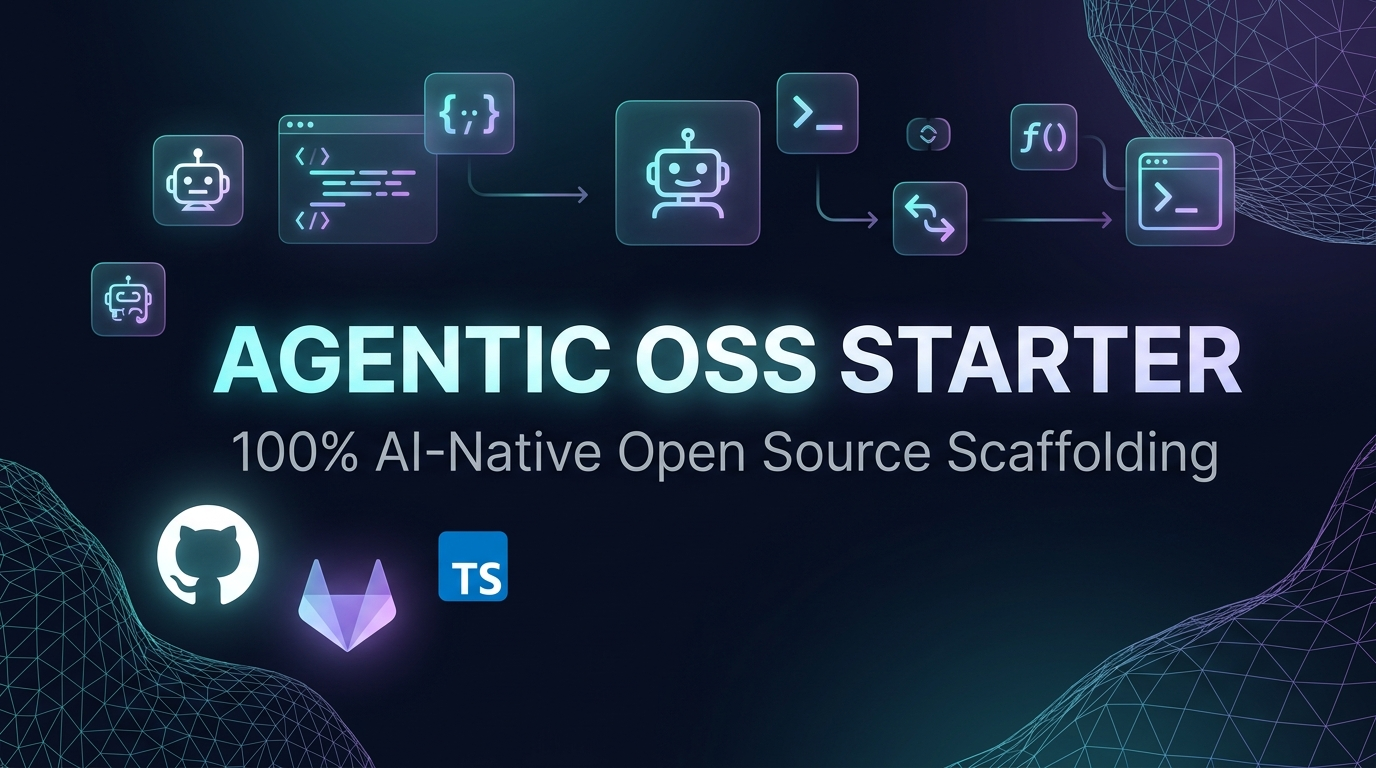
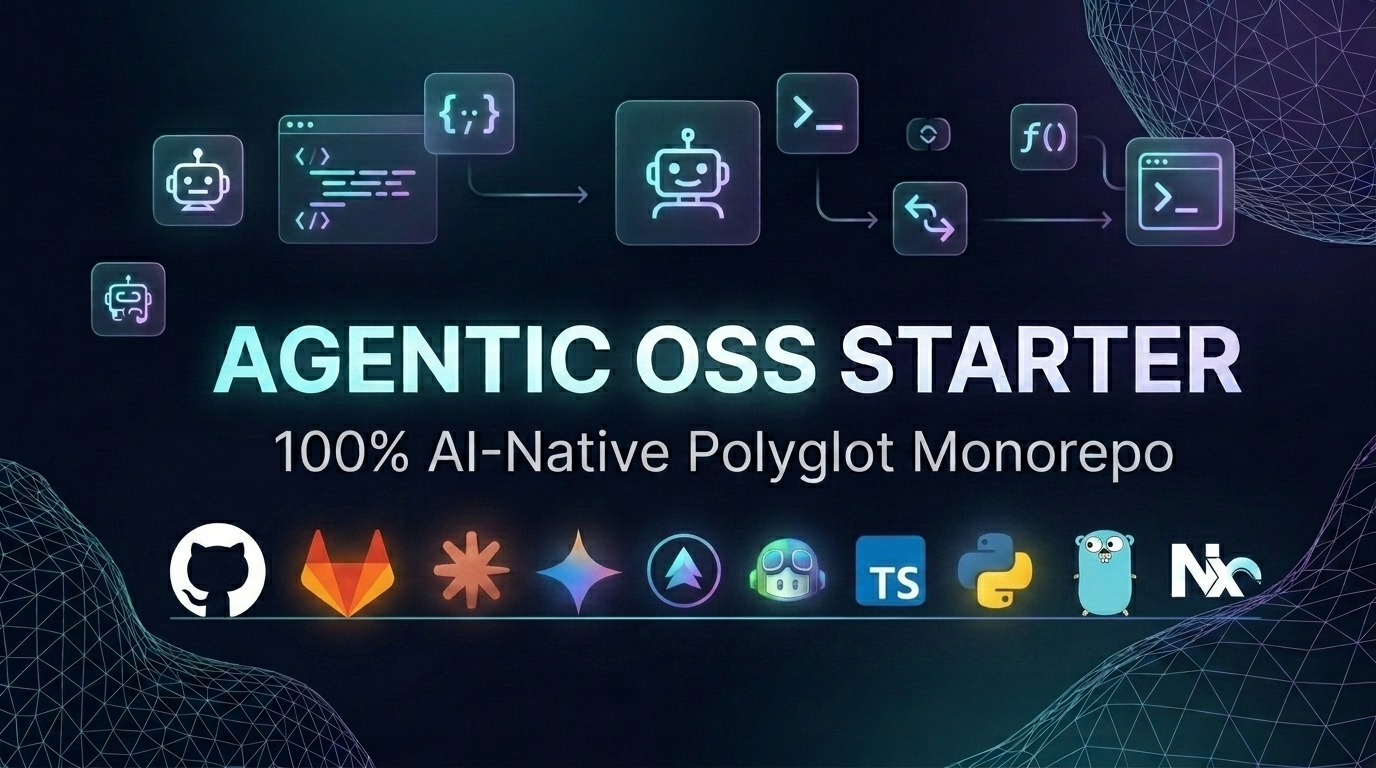
docs(claude): add CLAUDE.md guidelines for Anthropic Claude Code (#22)
docs(claude): add CLAUDE.md guidelines and updated polyglot AI branding

diff --git a/README.md b/README.md
@@ -9,13 +9,22 @@
     <img src="https://github.com/shailesh17/agentic-oss-starter/actions/workflows/ci.yml/badge.svg" alt="CI Status" />
   </a>
   <a href="https://gitlab.com/shaileshpatel17/agentic-oss-starter/-/pipelines">
-    <img src="https://img.shields.io/badge/GitLab%20CI-passing-orange.svg?logo=gitlab" alt="GitLab CI Status" />
+    <img src="https://img.shields.io/badge/GitLab%20CI-passing-orange.svg?logo=gitlab&logoColor=white" alt="GitLab CI Status" />
+  </a>
+  <a href="https://claude.ai">
+    <img src="https://img.shields.io/badge/Claude-Code%20Ready-D97706.svg?logo=anthropic&logoColor=white" alt="Claude Code Ready" />
+  </a>
+  <a href="https://deepmind.google/technologies/gemini/">
+    <img src="https://img.shields.io/badge/Gemini-Supported-4285F4.svg?logo=google&logoColor=white" alt="Gemini Supported" />
+  </a>
+  <a href="https://github.com/features/copilot">
+    <img src="https://img.shields.io/badge/Copilot%20%26%20Cursor-Configured-00ADD8.svg?logo=githubcopilot&logoColor=white" alt="Copilot & Cursor Configured" />
   </a>
   <a href="https://github.com/shailesh17/agentic-oss-starter/blob/main/LICENSE">
     <img src="https://img.shields.io/badge/License-MIT-blue.svg" alt="License: MIT" />
   </a>
   <a href="https://nodejs.org">
-    <img src="https://img.shields.io/badge/Node.js-%3E%3D22.13.0-brightgreen.svg" alt="Node.js Version" />
+    <img src="https://img.shields.io/badge/Node.js-%3E%3D22.13.0-brightgreen.svg?logo=nodedotjs&logoColor=white" alt="Node.js Version" />
   </a>
   <a href="https://python.org">
     <img src="https://img.shields.io/badge/Python-3.10+-3776AB.svg?logo=python&logoColor=white" alt="Python Version" />
@@ -24,16 +33,16 @@
     <img src="https://img.shields.io/badge/Go-1.22+-00ADD8.svg?logo=go&logoColor=white" alt="Go Version" />
   </a>
   <a href="https://pnpm.io">
-    <img src="https://img.shields.io/badge/pnpm-11.x-orange.svg" alt="pnpm" />
+    <img src="https://img.shields.io/badge/pnpm-11.x-orange.svg?logo=pnpm&logoColor=white" alt="pnpm" />
   </a>
   <a href="https://nx.dev">
-    <img src="https://img.shields.io/badge/Nx-Polyglot%20Monorepo-blue.svg" alt="Nx Monorepo" />
+    <img src="https://img.shields.io/badge/Nx-Polyglot%20Monorepo-143055.svg?logo=nx&logoColor=white" alt="Nx Monorepo" />
   </a>
   <a href="https://trunk.io">
-    <img src="https://img.shields.io/badge/Trunk-Checked-blueviolet.svg" alt="Trunk Check" />
+    <img src="https://img.shields.io/badge/Trunk-Checked-blueviolet.svg?logo=trunk&logoColor=white" alt="Trunk Check" />
   </a>
   <a href="https://www.conventionalcommits.org">
-    <img src="https://img.shields.io/badge/Conventional%20Commits-1.0.0-yellow.svg" alt="Conventional Commits" />
+    <img src="https://img.shields.io/badge/Conventional%20Commits-1.0.0-yellow.svg?logo=conventionalcommits&logoColor=white" alt="Conventional Commits" />
   </a>
 </p>
 
@@ -145,6 +154,7 @@ agentic-oss-starter/
 ├── scripts/
 │   ├── setup-github-repo.sh    # One-command GitHub settings & branch ruleset setup
 │   └── mirror-to-gitlab.sh     # One-command GitLab mirror with GPG signature preservation
+├── CLAUDE.md                   # Anthropic Claude Code CLI memory & instructions
 ├── nx.json                     # Local Nx workspace task graph & cache config
 ├── pnpm-workspace.yaml         # Defines workspace package layout
 ├── package.json                # Root package.json with unified orchestration scripts
@@ -213,20 +223,20 @@ Adding a new language (e.g. Rust, Java, or C#) is as simple as adding a folder w
 
 ## 📦 Features & Capabilities
 
-| Feature                         | Description                                                                       | File / Tool                                                 |
-| :------------------------------ | :-------------------------------------------------------------------------------- | :---------------------------------------------------------- |
-| **🌐 Polyglot Support**         | First-class TypeScript, Python, and Go project scaffolding                        | `apps/*`, `packages/*`                                      |
-| **⚡ Local Nx Monorepo**        | Task caching, topological builds, and affected commands with zero cloud telemetry | `nx.json`, `pnpm-workspace.yaml`                            |
-| **🤖 AI Agent Guidelines**      | Comprehensive pairing rules, stdout stream hygiene, and prompt runbooks           | `AGENTS.md`, `GEMINI.md`, `.github/copilot-instructions.md` |
-| **⚡ AI PR Creation Skill**     | Automated rich Markdown PR generator with verification & checklist                | `.agents/skills/create-pr/SKILL.md`                         |
-| **🧪 Multi-Node Matrix CI**     | Automated builds & tests across Node 22.x & 24.x, Python 3.12, and Go 1.22        | `.github/workflows/ci.yml`                                  |
-| **📝 Semantic PR Validation**   | Enforces Conventional Commits specification on PR titles                          | `.github/workflows/semantic-pr.yml`                         |
-| **🏷 Release Drafter**          | Automatically drafts release notes categorized by Conventional Commits            | `.github/workflows/release.yml`                             |
-| **🦊 GitLab CI/CD Pipeline**    | Dual-platform CI pipeline ready for GitLab mirroring with zero config             | `.gitlab-ci.yml`, `scripts/mirror-to-gitlab.sh`             |
-| **🔐 GPG Mirror Verification**  | Automatically signs mirrored commits with personal GPG keys on GitLab             | `scripts/mirror-to-gitlab.sh`                               |
-| **🛡 Automated Repo Rules**     | One-command setup for squash merging, linear history, and branch rulesets         | `scripts/setup-github-repo.sh`                              |
-| **🧹 Zero Global Dependencies** | Trunk launcher, TypeScript, Nx, and Commitlint run locally via `node_modules`     | `.trunk/trunk.yaml`, `package.json`                         |
-| **🤖 Consolidated Dependabot**  | Groups weekly updates into unified PRs, preventing rebasing cascades              | `.github/dependabot.yml`                                    |
+| Feature                         | Description                                                                       | File / Tool                                                              |
+| :------------------------------ | :-------------------------------------------------------------------------------- | :----------------------------------------------------------------------- |
+| **🌐 Polyglot Support**         | First-class TypeScript, Python, and Go project scaffolding                        | `apps/*`, `packages/*`                                                   |
+| **⚡ Local Nx Monorepo**        | Task caching, topological builds, and affected commands with zero cloud telemetry | `nx.json`, `pnpm-workspace.yaml`                                         |
+| **🤖 AI Agent Guidelines**      | Comprehensive pairing rules, stdout stream hygiene, and prompt runbooks           | `AGENTS.md`, `GEMINI.md`, `CLAUDE.md`, `.github/copilot-instructions.md` |
+| **⚡ AI PR Creation Skill**     | Automated rich Markdown PR generator with verification & checklist                | `.agents/skills/create-pr/SKILL.md`                                      |
+| **🧪 Multi-Node Matrix CI**     | Automated builds & tests across Node 22.x & 24.x, Python 3.12, and Go 1.22        | `.github/workflows/ci.yml`                                               |
+| **📝 Semantic PR Validation**   | Enforces Conventional Commits specification on PR titles                          | `.github/workflows/semantic-pr.yml`                                      |
+| **🏷 Release Drafter**          | Automatically drafts release notes categorized by Conventional Commits            | `.github/workflows/release.yml`                                          |
+| **🦊 GitLab CI/CD Pipeline**    | Dual-platform CI pipeline ready for GitLab mirroring with zero config             | `.gitlab-ci.yml`, `scripts/mirror-to-gitlab.sh`                          |
+| **🔐 GPG Mirror Verification**  | Automatically signs mirrored commits with personal GPG keys on GitLab             | `scripts/mirror-to-gitlab.sh`                                            |
+| **🛡 Automated Repo Rules**     | One-command setup for squash merging, linear history, and branch rulesets         | `scripts/setup-github-repo.sh`                                           |
+| **🧹 Zero Global Dependencies** | Trunk launcher, TypeScript, Nx, and Commitlint run locally via `node_modules`     | `.trunk/trunk.yaml`, `package.json`                                      |
+| **🤖 Consolidated Dependabot**  | Groups weekly updates into unified PRs, preventing rebasing cascades              | `.github/dependabot.yml`                                                 |
 
 ---
 
@@ -236,8 +246,9 @@ This template is configured to instruct AI agents how to contribute safely and e
 
 ### 📚 Agent Configuration Files
 
-| File                                  | Target Agent / IDE         | Purpose                                                         |
+| File                                  | Target AI Tool / Platform  | Purpose                                                         |
 | :------------------------------------ | :------------------------- | :-------------------------------------------------------------- |
+| **`CLAUDE.md`**                       | Anthropic Claude Code CLI  | Session instructions, polyglot task commands, and rules.        |
 | **`AGENTS.md`**                       | All Coding Agents          | Monorepo architecture, polyglot task contract, and PR workflow. |
 | **`GEMINI.md`**                       | Antigravity / Gemini IDE   | Workspace instructions and automated PR standards.              |
 | **`.github/copilot-instructions.md`** | GitHub Copilot & Cursor    | Coding conventions, polyglot guidelines, and tooling commands.  |
@@ -249,7 +260,7 @@ Copy and paste this prompt when instructing your AI assistant:
 
 ```text
 Please implement [feature/fix description].
-1. Follow the polyglot monorepo guidelines in AGENTS.md.
+1. Follow the polyglot monorepo guidelines in AGENTS.md and CLAUDE.md.
 2. Verify with `pnpm run build`, `pnpm test`, `pnpm run format`, and `pnpm run check`.
 3. Open a Pull Request using the workflow in `.agents/skills/create-pr/SKILL.md`.
 ```

diff --git a/CLAUDE.md b/CLAUDE.md
@@ -1,0 +1,33 @@
+# Claude Code Guidelines for `agentic-oss-starter`
+
+Welcome, Claude! This document provides concise, actionable guidelines for developing within this **AI-native polyglot monorepo**.
+
+---
+
+## 🛠 Common Commands
+
+- **Build all workspace tiers**: `pnpm run build`
+- **Run all test suites**: `pnpm test`
+- **Run tests for affected packages only**: `pnpm run affected:test`
+- **Run watch/dev mode**: `pnpm run dev`
+- **Format code**: `pnpm run format` (`trunk fmt`)
+- **Lint & static analysis**: `pnpm run check` (`trunk check`)
+
+---
+
+## 🏗 Polyglot Architecture & Tiers
+
+- **`apps/web`** (TypeScript): Frontend application client.
+- **`apps/api`** (TypeScript): Backend service / API gateway.
+- **`apps/ai-service`** (Python): AI agent, prompt processing, and data service (`pyproject.toml`).
+- **`apps/gateway`** (Go): High-performance microservice and proxy (`go.mod`).
+- **`packages/shared`** (TypeScript): Reusable contracts, schemas, and utilities (`@agentic/shared`).
+
+---
+
+## 📝 Coding & Commit Standards
+
+- **Conventional Commits**: `<type>(<scope>): <description>` (e.g. `feat(gateway): add health check`, `fix(ai-service): handle empty prompt`).
+- **Pre-flight Checks**: Always run `pnpm run build`, `pnpm test`, `pnpm run format`, and `pnpm run check` before submitting changes.
+- **Dependency Management**: Use `pnpm` exclusively. Never introduce `npm` or `yarn` lockfiles.
+- **Local Tooling**: Nx and Trunk run strictly locally via `node_modules` without global installation requirements.
